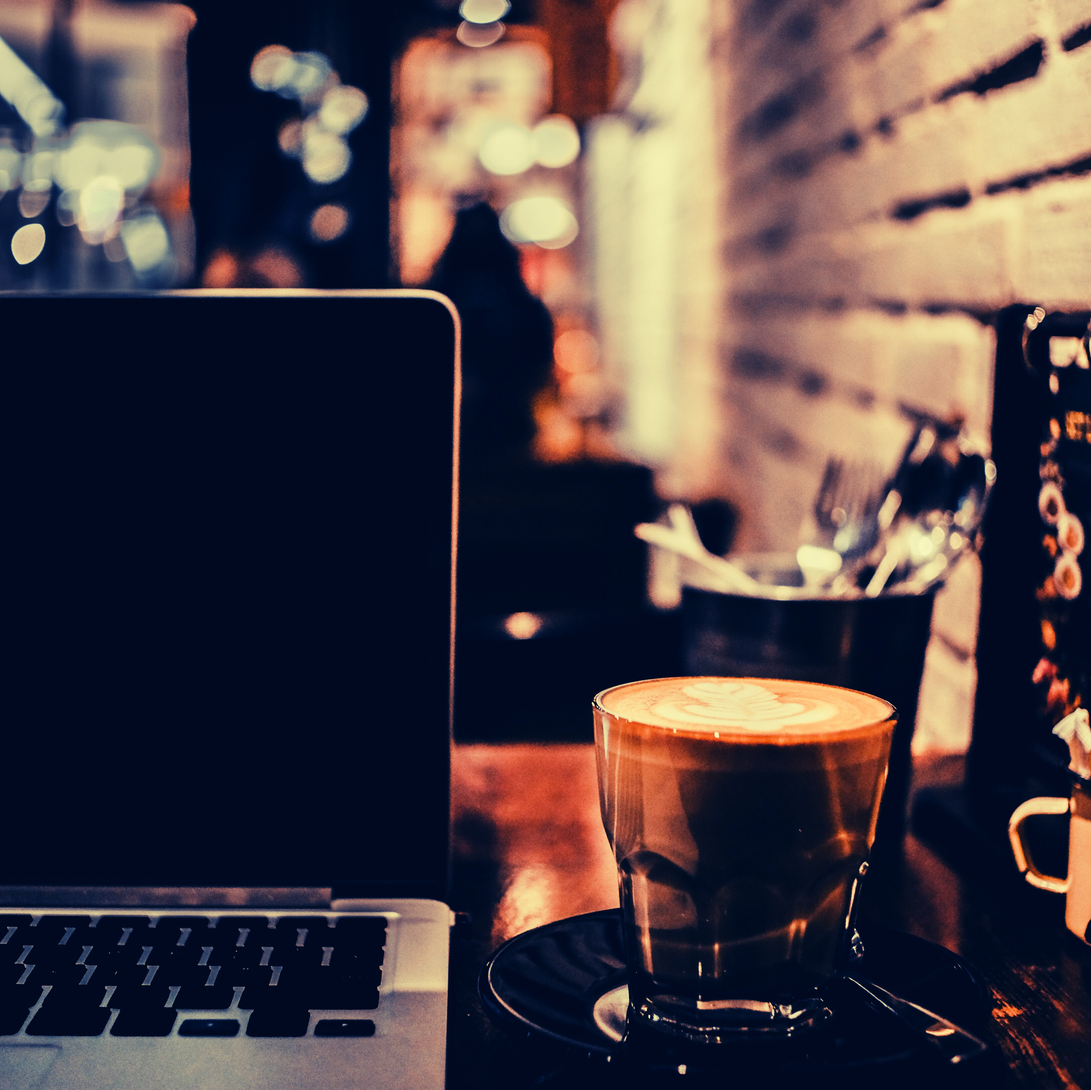
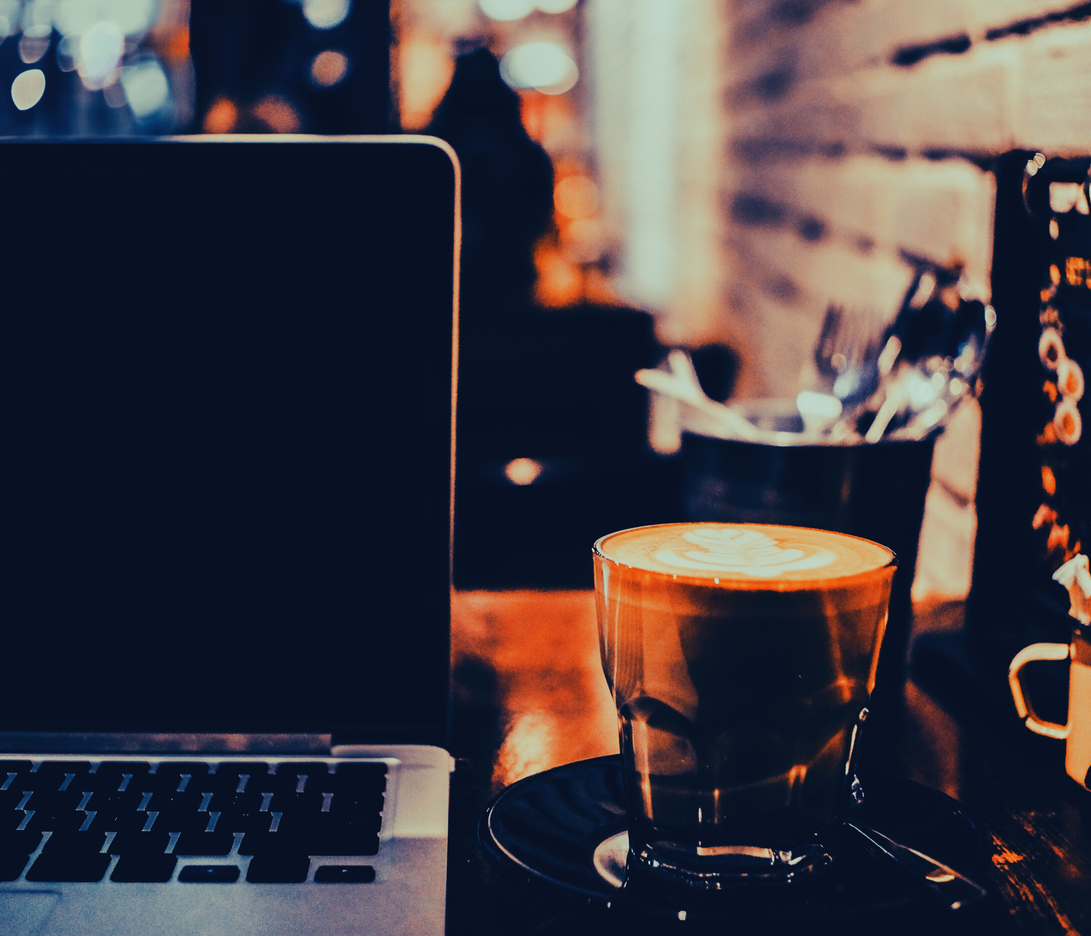
rest of previous commit material.

diff --git a/index.html b/index.html
@@ -50,7 +50,7 @@
         <h1 class="text-light"><a href="index.html">Brian Cooper</a></h1>
         <div class="social-links mt-3 text-center">
           <a href="https://github.com/CoopersCoding" class="google-plus" target="_blank"><i class="bx bxl-github"></i></a>
-          <a href="www.linkedin.com/in/brian-cooper-380115184" class="linkedin" target="_blank"><i class="bx bxl-linkedin"></i></a>
+          <a href="https://www.linkedin.com/in/brian-cooper-380115184" class="linkedin" target="_blank"><i class="bx bxl-linkedin"></i></a>
         </div>
       </div>
 
@@ -60,7 +60,9 @@
           <li><a href="#about" class="nav-link scrollto"><i class="bx bx-user"></i> <span>About</span></a></li>
           <li><a href="#resume" class="nav-link scrollto"><i class="bx bx-file-blank"></i> <span>Resume</span></a></li>
           <li><a href="#portfolio" class="nav-link scrollto"><i class="bx bx-book-content"></i> <span>Portfolio</span></a></li>
+          <!--
           <li><a href="#services" class="nav-link scrollto"><i class="bx bx-server"></i> <span>Services</span></a></li>
+          -->
           <li><a href="#contact" class="nav-link scrollto"><i class="bx bx-envelope"></i> <span>Contact</span></a></li>
         </ul>
       </nav><!-- .nav-menu -->
@@ -267,34 +269,44 @@
 
         <div class="section-title">
           <h2>Resume</h2>
-          <p>Magnam dolores commodi suscipit. Necessitatibus eius consequatur ex aliquid fuga eum quidem. Sit sint consectetur velit. Quisquam quos quisquam cupiditate. Et nemo qui impedit suscipit alias ea. Quia fugiat sit in iste officiis commodi quidem hic quas.</p>
+          <p>I aspire to pursue a career where I can make a significant contribution to the success of your organization. My passion lies in utilizing my skills and extensive experience to help the company excel in delivering outstanding services to its clients.</p>
         </div>
 
         <div class="row">
           <div class="col-lg-6" data-aos="fade-up">
             <h3 class="resume-title">Summary</h3>
             <div class="resume-item pb-0">
-              <h4>Alex Smith</h4>
-              <p><em>Innovative and deadline-driven Graphic Designer with 3+ years of experience designing and developing user-centered digital/print marketing material from initial concept to final, polished deliverable.</em></p>
+              <h4>Freelancer</h4>
+              <p><em>Innovative and deadline-driven Full-Stack/Software Engineer with experience working with clients to produce material from initial concept to final, polished deliverable.</em></p>
               <ul>
-                <li>Portland par 127,Orlando, FL</li>
-                <li>(123) 456-7891</li>
-                <li>alice.barkley@example.com</li>
+                <li>Indianapolis, IN USA</li>
               </ul>
             </div>
 
             <h3 class="resume-title">Education</h3>
             <div class="resume-item">
-              <h4>Master of Fine Arts &amp; Graphic Design</h4>
-              <h5>2015 - 2016</h5>
-              <p><em>Rochester Institute of Technology, Rochester, NY</em></p>
-              <p>Qui deserunt veniam. Et sed aliquam labore tempore sed quisquam iusto autem sit. Ea vero voluptatum qui ut dignissimos deleniti nerada porti sand markend</p>
+              <h4>Full-Stack /Software Engineer</h4>
+              <h5>2023 - 2024</h5>
+              <p><em>Altcademy Bootcamp</em></p>
+              <p><a href="https://www.altcademy.com/" target="_blank">www.altcademy.com</a></p>
             </div>
             <div class="resume-item">
-              <h4>Bachelor of Fine Arts &amp; Graphic Design</h4>
-              <h5>2010 - 2014</h5>
-              <p><em>Rochester Institute of Technology, Rochester, NY</em></p>
-              <p>Quia nobis sequi est occaecati aut. Repudiandae et iusto quae reiciendis et quis Eius vel ratione eius unde vitae rerum voluptates asperiores voluptatem Earum molestiae consequatur neque etlon sader mart dila</p>
+              <h4>Doctor of Ministry: Leadership</h4>
+              <h5>2011 - 2014</h5>
+              <p><em>Azusa Pacific University, Azusa, CA</em></p>
+              <p><a href="https://www.apu.edu/seminary/programs/dmin/" target="_blank">www.apu.edu</a></p>
+            </div>
+            <div class="resume-item">
+              <h4>Masters of Divinity</h4>
+              <h5>2005 - 2008</h5>
+              <p><em>Azusa Pacific University, Azusa, CA</em></p>
+              <p><a href="https://www.apu.edu/seminary/programs/dmin/" target="_blank">www.apu.edu</a></p>
+            </div>
+            <div class="resume-item">
+              <h4>B.S. in Biblical Literature</h4>
+              <h5>2005 - 2008</h5>
+              <p><em>Indiana Wesleyan University, Marion, IN</em></p>
+              <p><a href="https://degrees.indwes.edu/general/?agawsc=ps.go.br&campaign=Brand%20General%20-%20Tier%20One&adgroup=Indiana%20Wesleyan&keyword=wesleyan%20indiana&adid=581029848897&network=g&placement=&device=c&campaignid=1690536378&adgroupid=134357746218&matchtype=e&ad_pos=&tgid=kwd-391266896839&lphys=9016060&linst=&model=&sitetarg=&url=https://degrees.indwes.edu/general/&gad=1&gclid=CjwKCAjwu4WoBhBkEiwAojNdXkp9FQKi8BUnxTee2p5Pnxg2o5lVGE5jmgGfiI1B8YM9WZ5aTV2HDBoC2wAQAvD_BwE" target="_blank">www.iwu.edu</a></p>
             </div>
           </div>
           <div class="col-lg-6" data-aos="fade-up" data-aos-delay="100">
@@ -414,7 +426,9 @@
       </div>
     </section><!-- End Portfolio Section -->
 
+    
     <!-- ======= Services Section ======= -->
+    <!--
     <section id="services" class="services">
       <div class="container">
 
@@ -457,9 +471,12 @@
         </div>
 
       </div>
-    </section><!-- End Services Section -->
+    </section>
+    -->
+    <!-- End Services Section -->
 
     <!-- ======= Testimonials Section ======= -->
+    <!--
     <section id="testimonials" class="testimonials section-bg">
       <div class="container">
 
@@ -482,8 +499,10 @@
                 <h3>Saul Goodman</h3>
                 <h4>Ceo &amp; Founder</h4>
               </div>
-            </div><!-- End testimonial item -->
-
+            </div>
+           -->
+            <!-- End testimonial item -->
+          <!--
             <div class="swiper-slide">
               <div class="testimonial-item" data-aos="fade-up" data-aos-delay="100">
                 <p>
@@ -495,8 +514,10 @@
                 <h3>Sara Wilsson</h3>
                 <h4>Designer</h4>
               </div>
-            </div><!-- End testimonial item -->
-
+            </div>
+          -->
+            <!-- End testimonial item -->
+            <!--
             <div class="swiper-slide">
               <div class="testimonial-item" data-aos="fade-up" data-aos-delay="200">
                 <p>
@@ -508,8 +529,10 @@
                 <h3>Jena Karlis</h3>
                 <h4>Store Owner</h4>
               </div>
-            </div><!-- End testimonial item -->
-
+            </div>
+            -->
+            <!-- End testimonial item -->
+            <!--
             <div class="swiper-slide">
               <div class="testimonial-item" data-aos="fade-up" data-aos-delay="300">
                 <p>
@@ -521,8 +544,10 @@
                 <h3>Matt Brandon</h3>
                 <h4>Freelancer</h4>
               </div>
-            </div><!-- End testimonial item -->
-
+            </div>
+            -->
+            <!-- End testimonial item -->
+            <!--
             <div class="swiper-slide">
               <div class="testimonial-item" data-aos="fade-up" data-aos-delay="400">
                 <p>
@@ -534,12 +559,14 @@
                 <h3>John Larson</h3>
                 <h4>Entrepreneur</h4>
               </div>
-            </div><!-- End testimonial item -->
-
+            </div>
+            -->
+            <!-- End testimonial item -->
+            <!--
           </div>
           <div class="swiper-pagination"></div>
         </div>
-
+        -->
       </div>
     </section><!-- End Testimonials Section -->
 
@@ -549,7 +576,7 @@
 
         <div class="section-title">
           <h2>Contact</h2>
-          <p>Magnam dolores commodi suscipit. Necessitatibus eius consequatur ex aliquid fuga eum quidem. Sit sint consectetur velit. Quisquam quos quisquam cupiditate. Et nemo qui impedit suscipit alias ea. Quia fugiat sit in iste officiis commodi quidem hic quas.</p>
+          <p>Whether you are local or out of state, I'd love to have a conversation with you about how I can help your team or business to be successful. </p>
         </div>
 
         <div class="row" data-aos="fade-in">
@@ -568,7 +595,7 @@
                 <p>codewithcoop@gmail.com</p>
               </div>
 
-              <iframe src="https://www.google.com/maps/embed?pb=!1m14!1m8!1m3!1d12097.433213460943!2d-74.0062269!3d40.7101282!3m2!1i1024!2i768!4f13.1!3m3!1m2!1s0x0%3A0xb89d1fe6bc499443!2sDowntown+Conference+Center!5e0!3m2!1smk!2sbg!4v1539943755621" frameborder="0" style="border:0; width: 100%; height: 290px;" allowfullscreen></iframe>
+              <iframe src="https://www.google.com/maps/embed?pb=!1m18!1m12!1m3!1d196237.18500516147!2d-86.29755713501108!3d39.77993181389903!2m3!1f0!2f0!3f0!3m2!1i1024!2i768!4f13.1!3m3!1m2!1s0x886b50ffa7796a03%3A0xd68e9df640b9ea7c!2sIndianapolis%2C%20IN!5e0!3m2!1sen!2sus!4v1694606327810!5m2!1sen!2sus" frameborder="0" style="border:0; width: 100%; height: 290px;" allowfullscreen></iframe>
             </div>
 
           </div>
@@ -613,7 +640,7 @@
   <footer id="footer">
     <div class="container">
       <div class="copyright">
-        Part of <strong><span><a href="https://www.altcademy.com" class="altcademy-plug" target="_blank">Atcademy's</a></span></strong> Full Stack Program
+        Part of <strong><span><a href="https://www.altcademy.com" class="altcademy-plug" target="_blank">Altcademy's</a></span></strong> Full Stack Program
       </div>
       <div class="copyright">
         &copy; Copyright <strong><span>Brian Cooper</span></strong>

diff --git a/assets/css/style.css b/assets/css/style.css
@@ -241,7 +241,7 @@ h6 {
 #hero {
   width: 100%;
   height: 100vh;
-  background: url("../img/hero-bg2.jpg") top center;
+  background: url("../img/hero-bg3.jpg") top center;
   background-size: cover;
 }
 

diff --git a/forms/contact.php b/forms/contact.php
@@ -7,7 +7,7 @@
   */
 
   // Replace contact@example.com with your real receiving email address
-  $receiving_email_address = 'contact@example.com';
+  $receiving_email_address = 'codewithcoop@gmail.com';
 
   if( file_exists($php_email_form = '../assets/vendor/php-email-form/php-email-form.php' )) {
     include( $php_email_form );
